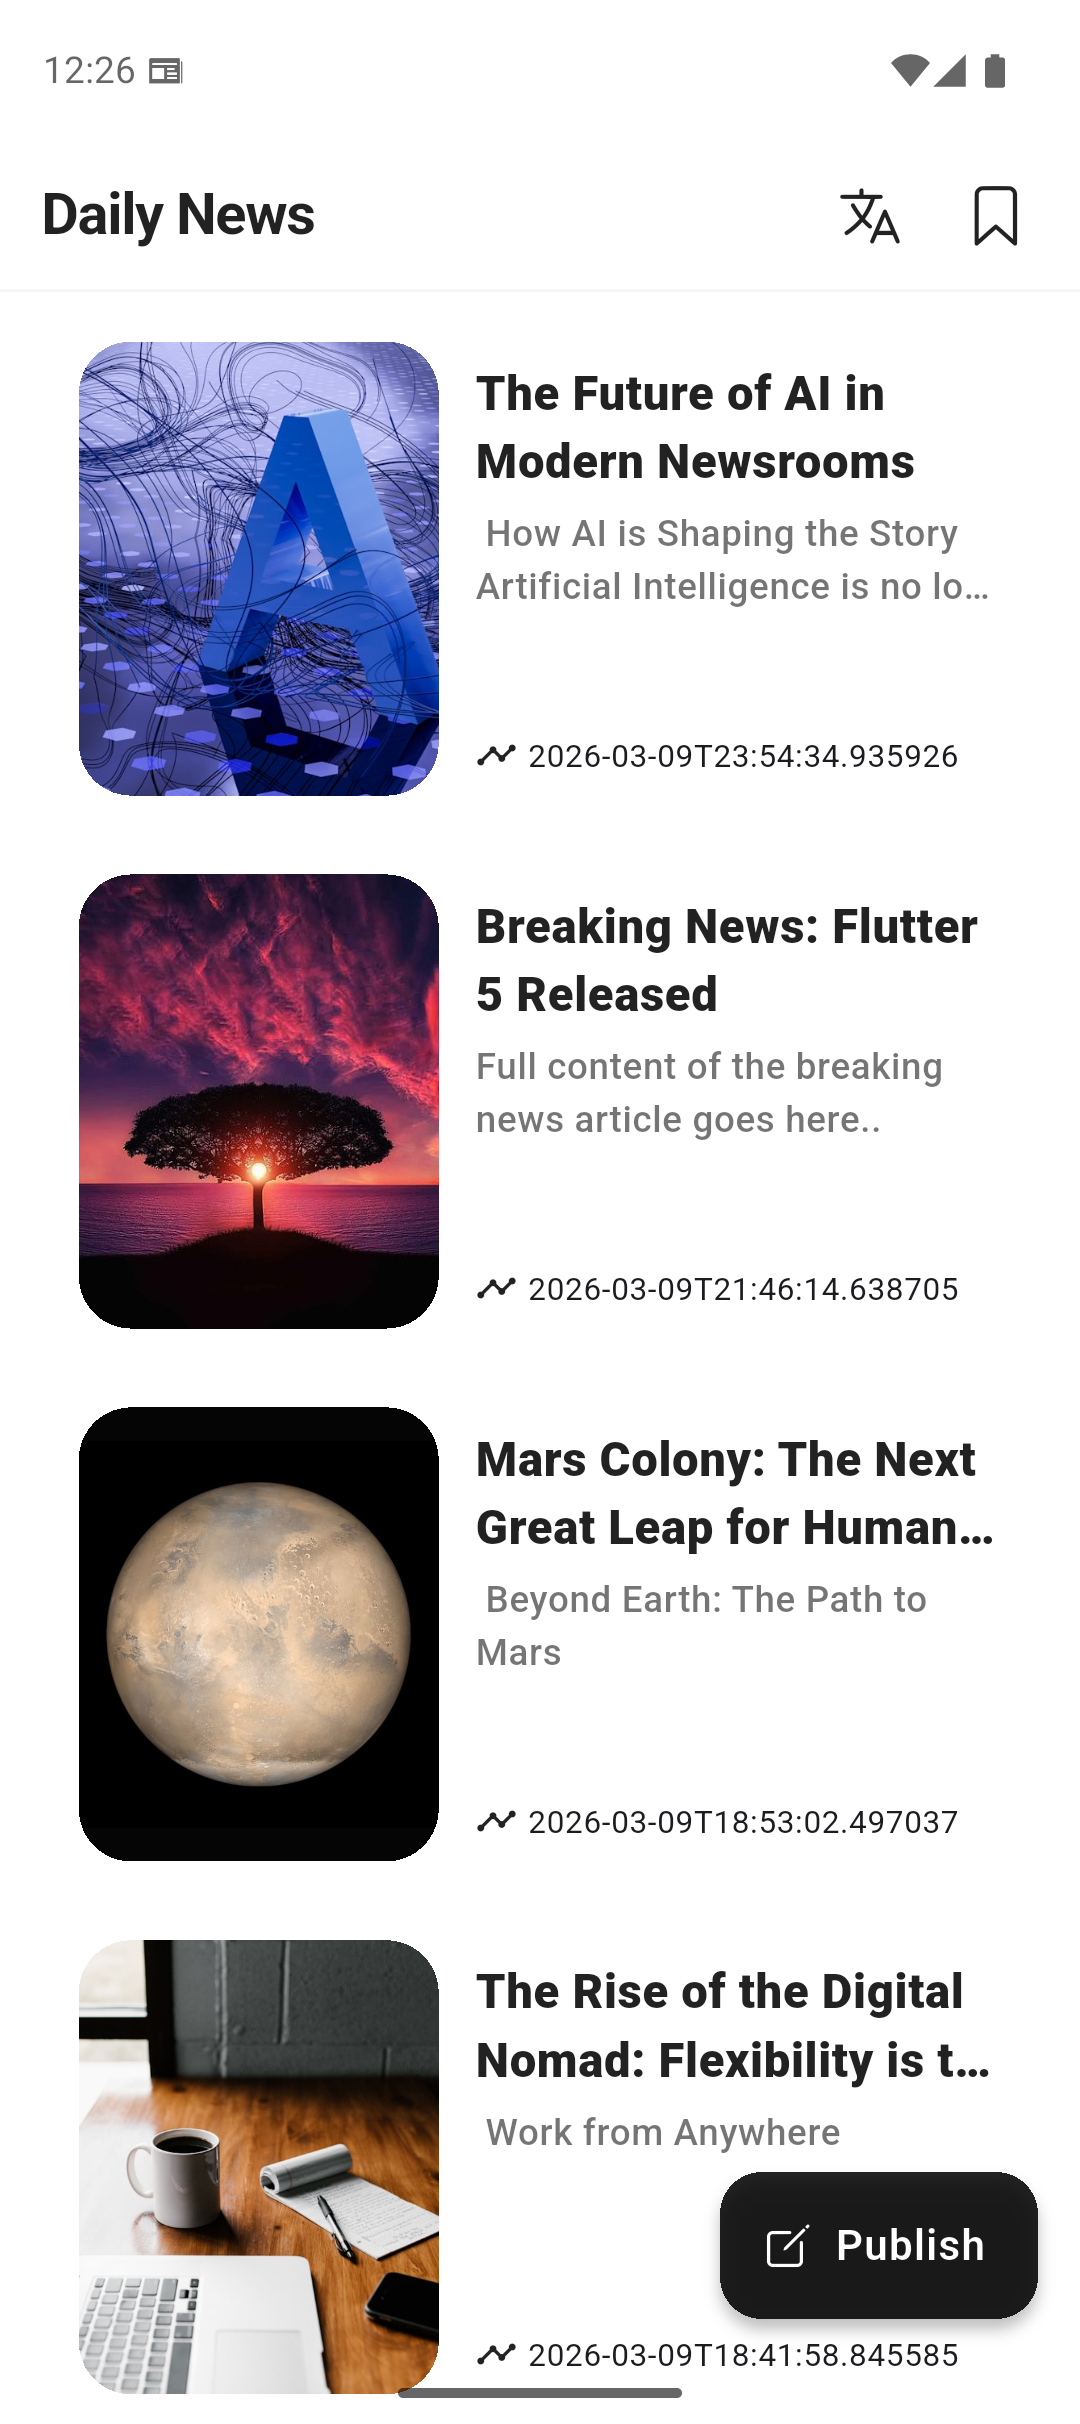
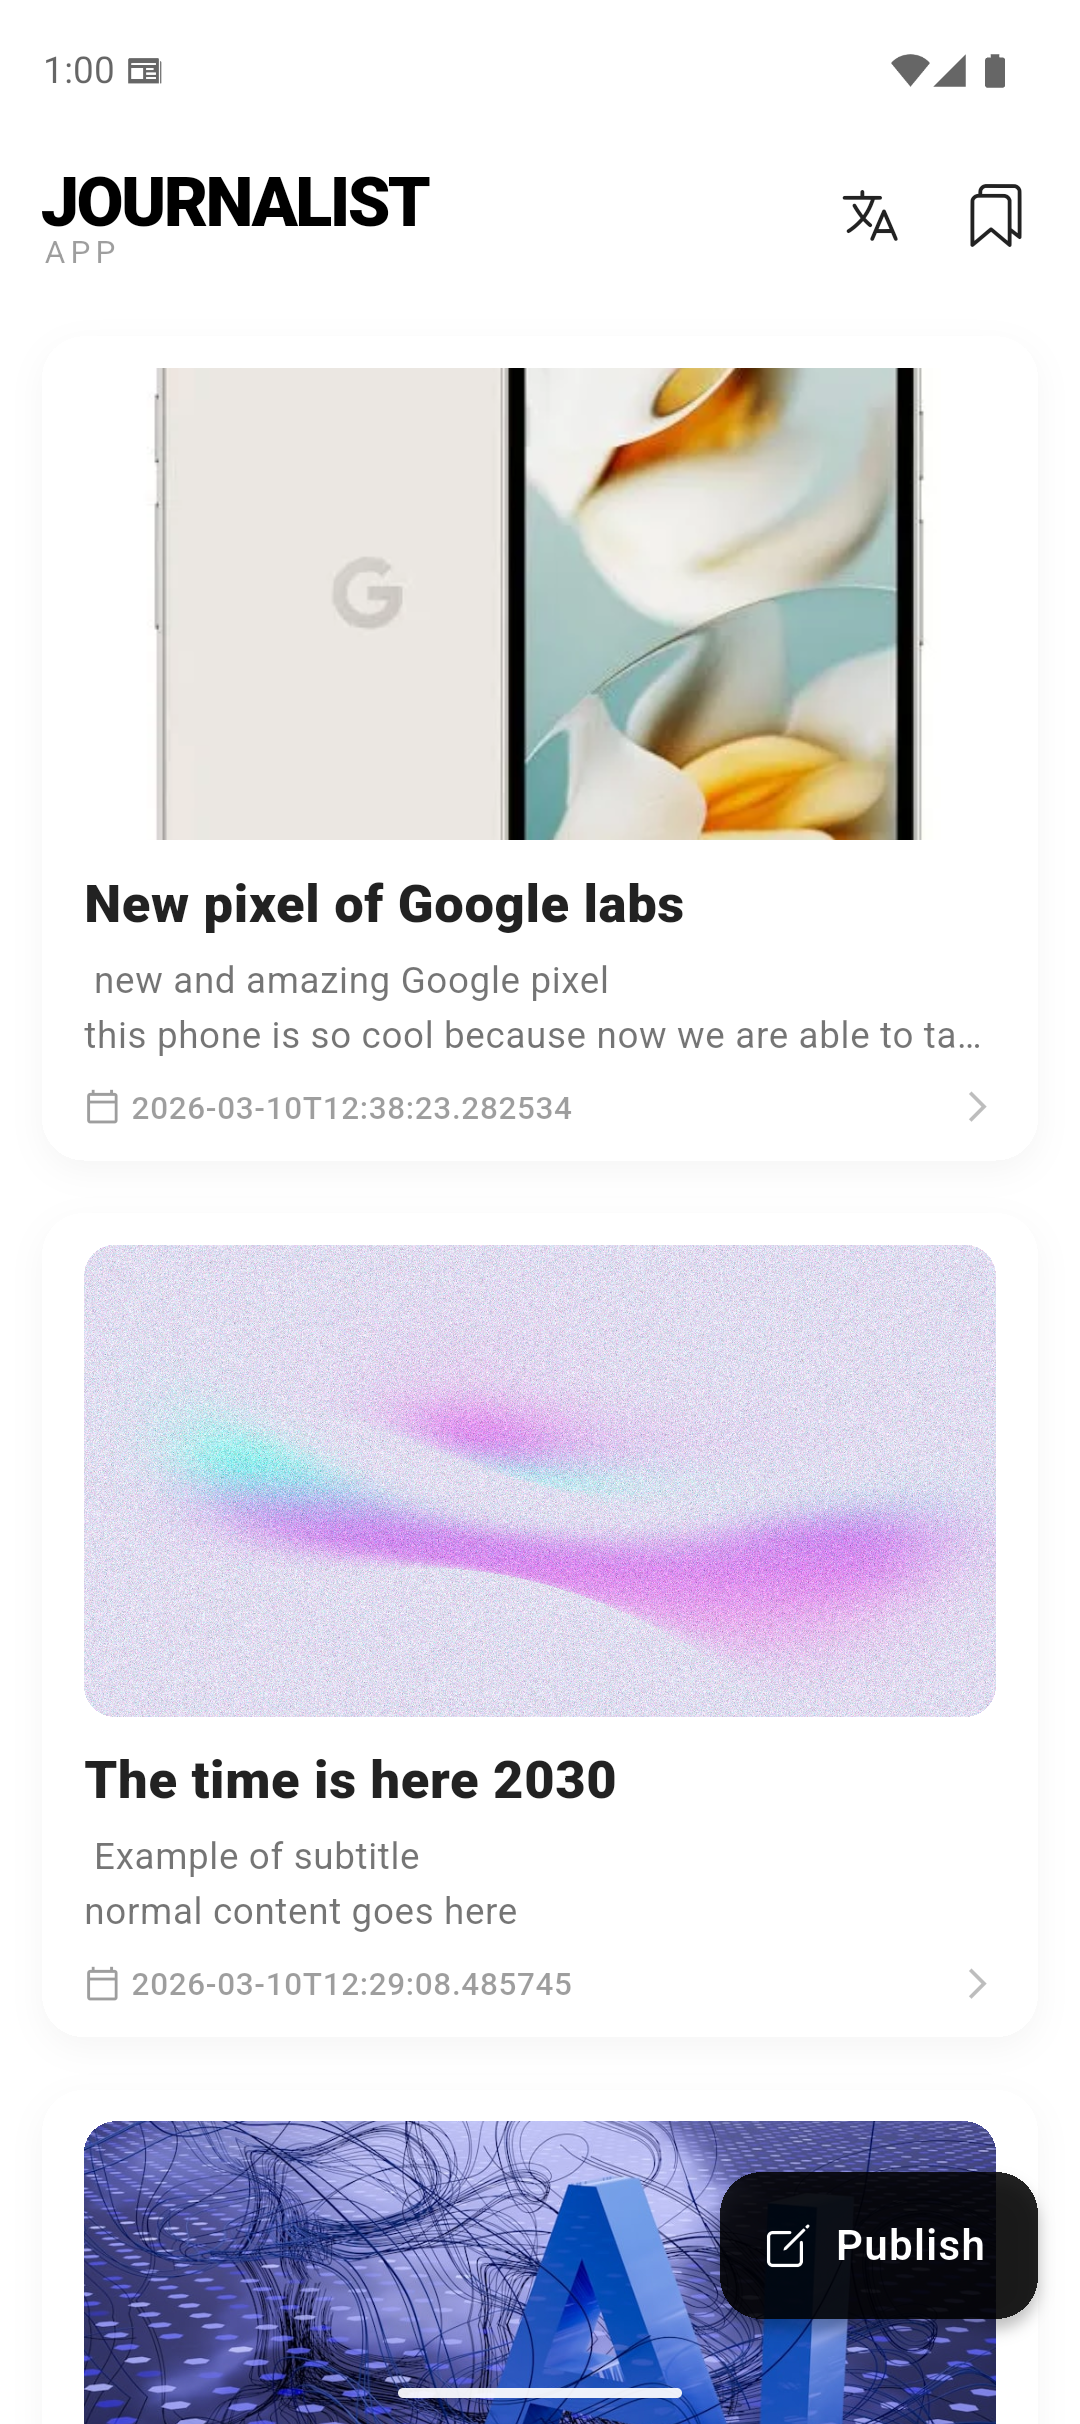
docs: finalize screenshots and localize app naming

diff --git a/lib/l10n/app_localizations_es.dart b/lib/l10n/app_localizations_es.dart
@@ -29,7 +29,7 @@ class AppLocalizationsEs extends AppLocalizations {
       '¡Conexión recuperada! Sincronizando nuevas noticias...';
 
   @override
-  String get dailyNewsTitle => 'Noticias Diarias';
+  String get dailyNewsTitle => 'JOURNALIST APP';
 
   @override
   String get publishArticleFab => 'Publicar';

diff --git a/lib/l10n/app_localizations_en.dart b/lib/l10n/app_localizations_en.dart
@@ -27,7 +27,7 @@ class AppLocalizationsEn extends AppLocalizations {
   String get onlineMessage => 'Back online! Syncing latest news...';
 
   @override
-  String get dailyNewsTitle => 'Daily News';
+  String get dailyNewsTitle => 'JOURNALIST APP';
 
   @override
   String get publishArticleFab => 'Publish';

diff --git a/lib/l10n/app_localizations.dart b/lib/l10n/app_localizations.dart
@@ -137,7 +137,7 @@ abstract class AppLocalizations {
   /// No description provided for @dailyNewsTitle.
   ///
   /// In en, this message translates to:
-  /// **'Daily News'**
+  /// **'JOURNALIST APP'**
   String get dailyNewsTitle;
 
   /// No description provided for @publishArticleFab.
